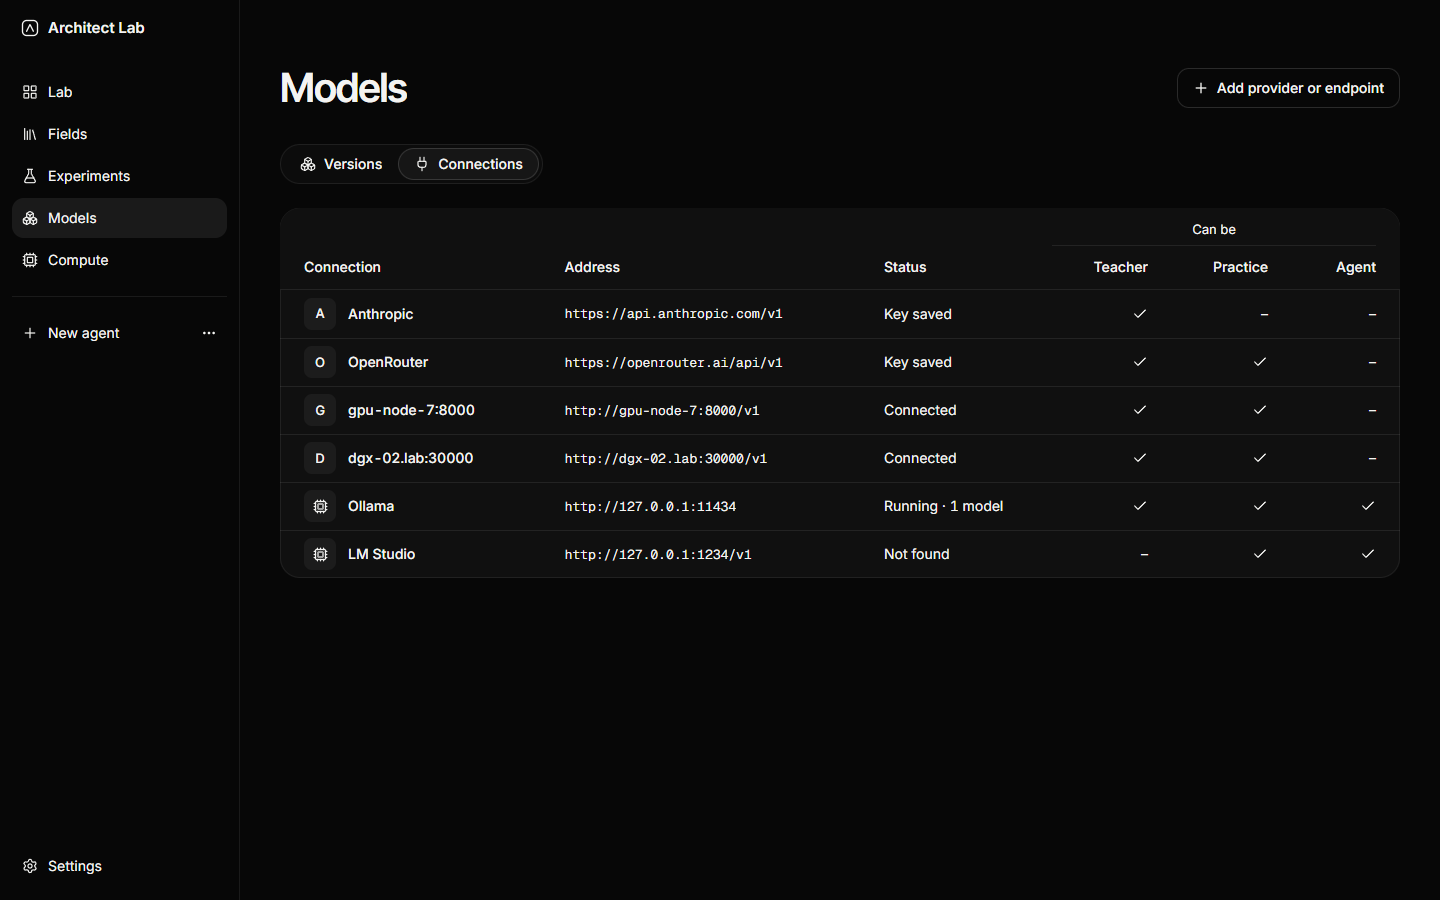
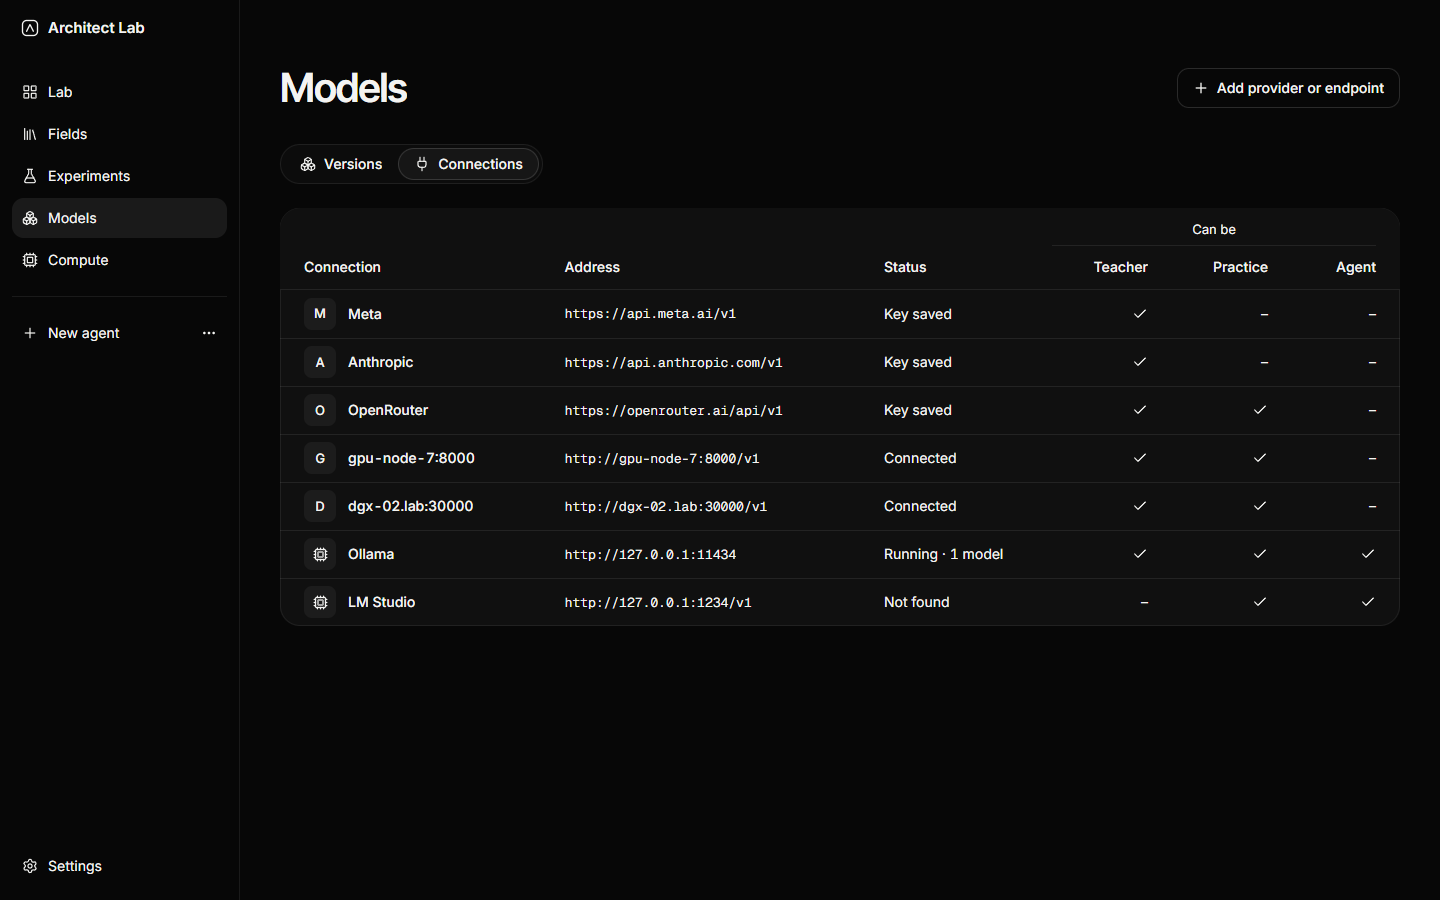
test(e2e): list the Meta Model API first among the stand-in connections

diff --git a/apps/desktop/e2e/any-model.spec.ts b/apps/desktop/e2e/any-model.spec.ts
@@ -1,6 +1,7 @@
 import { mkdir } from 'node:fs/promises';
 import { join } from 'node:path';
 import { fileURLToPath } from 'node:url';
+import { META_API_BASE_URL } from '@architect/shared';
 import { expect, test, type Page } from '@playwright/test';
 import { goTo, launchApp, settle, type LaunchedApp } from './app';
 import { EMPTY_ENGINE, LOCAL_WITH_GLIMMER, stubEngine } from './fixtures';
@@ -9,8 +10,8 @@ import { recordedComparisonReport } from './recorded';
 
 /*
  * Any model in every role (decision 094), against the stand-in engine: the Connections view on
- * Models, with a hosted API, a cluster's vLLM and SGLang servers and the runtimes here, each with
- * the roles it can fill; and an experiment designed on a field taught by other models than Spark
+ * Models, with the Meta Model API first, other hosted APIs, a cluster's vLLM and SGLang servers
+ * and the runtimes here, each with the roles it can fill; and an experiment designed on a field taught by other models than Spark
  * and Glimmer, every label naming them. Nothing here reaches a provider or a cluster.
  */
 
@@ -46,7 +47,7 @@ test.beforeAll(async () => {
   await mkdir(OUT_DIR, { recursive: true });
   await stubEngine(launched.app, {
     ...EMPTY_ENGINE,
-    'secrets:status': { openrouter: true, anthropic: true },
+    'secrets:status': { meta: true, openrouter: true, anthropic: true },
     'connections:detectLocal': LOCAL_WITH_GLIMMER,
     'connections:huggingFace': { source: null },
     'jobs:list': [
@@ -83,7 +84,10 @@ test('lists every connection on Models with how it stands and the roles it can f
   const row = (name: string) => table.getByRole('row', { name: new RegExp(name) });
 
   // Hosted keys first, then the endpoints added by address, then the runtimes on this computer.
-  await expect(table.getByRole('row')).toHaveCount(2 + 6);
+  await expect(table.getByRole('row')).toHaveCount(2 + 7);
+  await expect(table.locator('tbody tr').first()).toContainText('Meta');
+  await expect(row('Meta')).toContainText(META_API_BASE_URL);
+  await expect(row('Meta')).toContainText('Key saved');
   await expect(row('Anthropic')).toContainText('Key saved');
   await expect(row('gpu-node-7:8000')).toContainText(VLLM);
   await expect(row('Ollama')).toContainText('Running · 1 model');
@@ -91,6 +95,7 @@ test('lists every connection on Models with how it stands and the roles it can f
 
   // Any of them can teach; a cluster serves the copy it practices on; agents run only here.
   const yes = (name: string) => row(name).getByLabel('Yes');
+  await expect(yes('Meta')).toHaveCount(1);
   await expect(yes('Anthropic')).toHaveCount(1);
   await expect(yes('OpenRouter')).toHaveCount(2);
   await expect(yes('dgx-02.lab:30000')).toHaveCount(2);
